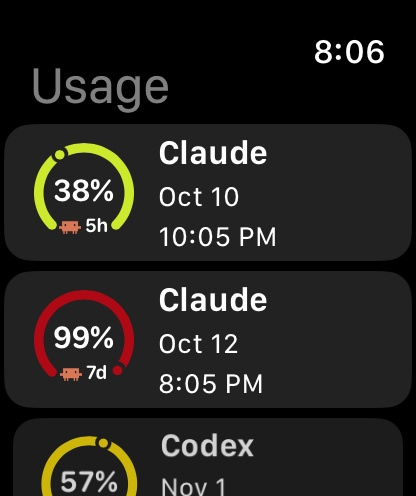
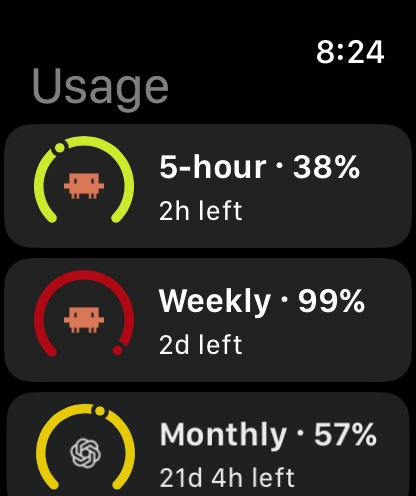
Simplify watch gauges with compact reset countdowns

diff --git a/Collie/CollieWatchWidgets/UsageGauges.swift b/Collie/CollieWatchWidgets/UsageGauges.swift
@@ -8,11 +8,11 @@ struct UsageGauges: View {
     var body: some View {
         let windows = usage?.windows(now: now) ?? [nil, nil, nil]
         GeometryReader { geometry in
-            let diameter = max(0, min((geometry.size.width - 12) / 3, geometry.size.height - 27))
-            HStack(spacing: 6) {
-                UsageGauge(logo: "Claude", period: "5h", label: "Claude 5-hour", window: windows[0], now: now, diameter: diameter)
-                UsageGauge(logo: "Claude", period: "7d", label: "Claude weekly", window: windows[1], now: now, diameter: diameter)
-                UsageGauge(logo: "Codex", period: "1m", label: "Codex monthly", window: windows[2], now: now, diameter: diameter)
+            let diameter = max(0, min((geometry.size.width - 4) / 3, geometry.size.height - 16))
+            HStack(spacing: 2) {
+                UsageGauge(logo: "Claude", label: "Claude 5-hour", window: windows[0], now: now, diameter: diameter)
+                UsageGauge(logo: "Claude", label: "Claude weekly", window: windows[1], now: now, diameter: diameter)
+                UsageGauge(logo: "Codex", label: "Codex monthly", window: windows[2], now: now, diameter: diameter)
             }
             .frame(width: geometry.size.width, height: geometry.size.height)
         }
@@ -21,33 +21,31 @@ struct UsageGauges: View {
 
 private struct UsageGauge: View {
     let logo: String
-    let period: String
     let label: String
     let window: WatchUsage.Window?
     let now: Date
     let diameter: CGFloat
 
     var body: some View {
-        VStack(spacing: 3) {
-            UsageDial(logo: logo, period: period, window: window, showsPercentage: false)
+        VStack(spacing: 2) {
+            UsageDial(logo: logo, window: window, showsPercentage: false)
+                .controlSize(.extraLarge)
                 .frame(width: diameter, height: diameter)
                 .widgetAccentable()
-            VStack(spacing: 0) {
+            HStack(spacing: 2) {
                 if let window {
-                    HStack(spacing: 2) {
-                        if window.isStale(now: now) {
-                            Circle().fill(.orange).frame(width: 3, height: 3)
-                        }
-                        Text(window.interval.upperBound, format: .dateTime.month(.abbreviated).day())
+                    if window.isStale(now: now) {
+                        Circle().fill(.orange).frame(width: 3, height: 3)
                     }
-                    Text(window.interval.upperBound, format: .dateTime.hour().minute())
+                    Text(Duration.seconds(max(0, window.interval.upperBound.timeIntervalSince(now))),
+                         format: .units(allowed: [.days, .hours, .minutes], width: .narrow, maximumUnitCount: 2))
                 } else {
                     Text("No data")
                 }
             }
             .font(.system(size: 10, design: .rounded))
             .foregroundStyle(.secondary)
-            .frame(height: 24)
+            .frame(height: 14)
         }
         .frame(width: diameter)
         .lineLimit(1)

diff --git a/Collie/CollieWatch/WatchUsageDetail.swift b/Collie/CollieWatch/WatchUsageDetail.swift
@@ -19,14 +19,16 @@ struct WatchUsageDetail: View {
                         }
                     } label: {
                         HStack(spacing: 10) {
-                            UsageDial(logo: logo, period: shortPeriod, window: window)
+                            UsageDial(logo: logo, window: window, showsPercentage: false)
                                 .frame(width: 54, height: 54)
                                 .accessibilityHidden(true)
                             VStack(alignment: .leading, spacing: 3) {
-                                Text(logo).font(.headline)
+                                Text("\(period) · \(window.map { "\($0.used)%" } ?? "--")")
+                                    .font(.headline)
                                 if let window {
-                                    Text(window.interval.upperBound, format: .dateTime.month(.abbreviated).day())
-                                    Text(window.interval.upperBound, format: .dateTime.hour().minute())
+                                    let remaining = Text(Duration.seconds(max(0, window.interval.upperBound.timeIntervalSince(context.date))),
+                                                         format: .units(allowed: [.days, .hours, .minutes], width: .narrow, maximumUnitCount: 2))
+                                    Text("\(remaining) left")
                                 } else {
                                     Text("No data")
                                 }

diff --git a/Collie/CollieWatchWidgets/UsageDial.swift b/Collie/CollieWatchWidgets/UsageDial.swift
@@ -2,17 +2,19 @@ import SwiftUI
 
 struct UsageDial: View {
     let logo: String
-    let period: String
+    var period: String? = nil
     let window: WatchUsage.Window?
     var showsPercentage = true
 
     var body: some View {
         Gauge(value: window?.usedFraction ?? 0) {
-            HStack(spacing: 2) {
-                if showsPercentage {
-                    UsageLogo(name: logo).frame(width: 11, height: 11)
+            if let period {
+                HStack(spacing: 2) {
+                    if showsPercentage {
+                        UsageLogo(name: logo).frame(width: 11, height: 11)
+                    }
+                    Text(period).font(.system(size: 10, weight: .semibold, design: .rounded))
                 }
-                Text(period).font(.system(size: 10, weight: .semibold, design: .rounded))
             }
         } currentValueLabel: {
             if showsPercentage {

diff --git a/docs/reviews/liquid-glass.md b/docs/reviews/liquid-glass.md
@@ -20,8 +20,8 @@ Issue #207 uses the iOS 26 and watchOS 26 glass APIs directly. The minimum versi
 | Onboarding | Glass applied to sign-in and auth-key actions. Instructions and input remain form content. |
 | Watch home / agents | Already uses system lists and navigation. Agent status remains content. |
 | Watch approval detail | Glass applied to Approve, Deny and question actions. Commands and status remain content. |
-| Watch usage detail | Compact native list with percentage gauges and exact resets. Tapping a window opens its countdown, reading age and elapsed percentage. No glass on content. |
-| Watch complications / Smart Stack | Rectangular widget redesigned with three native `Gauge` controls using `.accessoryCircular`. Provider sits inside, the window label sits in the opening, and exact reset date and time sit below. Percentages are shown in the app after tapping. Native markers indicate usage; the circular complication retains elapsed-time ticks. Preserve stale and missing-data states. Gauges use `widgetAccentable`; no extra glass layer. |
+| Watch usage detail | Compact native list with logo gauges, window labels, percentages and reset countdowns. Tapping a window opens its countdown, reading age and elapsed percentage. No glass on content. |
+| Watch complications / Smart Stack | Rectangular widget redesigned with three native `Gauge` controls using `.accessoryCircular`. Provider sits inside and a compact reset countdown sits below. Window labels are omitted to maximize gauge space. Percentages are shown in the app after tapping. Native markers indicate usage; the circular complication retains elapsed-time ticks. Preserve stale and missing-data states. Gauges use `widgetAccentable`; no extra glass layer. |
 | Live Activity / Dynamic Island | System-hosted surface. Remove forced black background, white system actions and dark appearance from the Lock Screen activity. Status pills remain content and approval buttons keep the native widget button style. |
 
 Adjacent custom glass controls share `GlassEffectContainer`. Controls inside a glass composer or dictation capsule do not add another glass surface. Agents/Usage uses native interactive page scrolling instead of a gesture that switches only after release. Page transitions triggered by the selector respect Reduce Motion.
@@ -37,7 +37,7 @@ Prioritize dark mode while retaining native appearance and accessibility behavio
 - Signed iPhone build, embedded watch app and widgets: built successfully and passed signature verification.
 - Reviewed the final diff for approval guards, disabled states, composer behavior and widget missing/stale states. Fixed clipped terminal key labels during visual review. Physical watch feedback exposed a widget-only collapse in the geometry-scaled gauges; the updated implementation removes that transform and shares the plain native gauge with usage detail.
 - Simulator fixtures covered light, dark, Increase Contrast, accessibility text sizes and actual Reduce Transparency. Verified native paging at a partial offset with both pages visible and after settling on Usage. Approval actions stack at accessibility sizes. Existing agent header/key clipping at extreme text sizes remains outside this change.
-- Native watch simulator previews and rectangular fixtures cover reset labels and missing data. Standalone previews did not reproduce the physical widget layout failure. Physical feedback confirmed the collapse was resolved. The later simplified widget and compact usage list await physical acceptance.
+- Native watch simulator previews and rectangular fixtures cover reset countdowns and missing data. Standalone previews did not reproduce the physical widget layout failure. Physical feedback confirmed the collapse was resolved. The later simplified widget and compact usage list await physical acceptance.
 
 These screenshots use deterministic fixtures rendered with production views. The watch simulator image uses a temporary host app with the production gauge view, rather than a configured watch face.
 

diff --git a/README.md b/README.md
@@ -81,7 +81,7 @@ Floating composers, terminal keys, filters and approval actions use native Liqui
 ### Apple Watch
 
 - Pending approvals with the command and a countdown, the agents as in the inbox, and a three-ring usage complication, refreshed about every 15 minutes when watchOS allows it. Outer to inner: Claude 5-hour, Claude weekly, and Codex monthly (resetting on the first of the month). Ring length shows percent used; color shifts smoothly with usage: bright green at 0%, yellow at 60%, orange at 80%, red at 90%, and deep red near 100%. Missing or expired readings show a dim track.
-- The Plan usage widget in the watch Smart Stack shows three native circular gauges for Claude 5-hour, Claude weekly and Codex monthly usage. Each gauge holds the provider logo, with the window label in its opening and the exact reset date and time below. Percentages appear in the watch app after tapping the widget. The native marker indicates usage. The rings use the same usage-color scale as the circular complication. It is also available as a rectangular watch-face complication. White ticks on the circular complication rings mark the elapsed share of each usage window. Fill beyond the tick means usage is ahead of an even pace. Markers are scheduled to advance every five minutes from cached data. The phone’s Codex bar now marks the elapsed share of the month, matching Claude’s pace markers. A small orange dot beside the reset date in the rectangular widget, or beside the percentage in the circular complication, marks readings at least 30 minutes old or of unknown age. Unavailable readings use dim tracks and `--`; missing rings are dashed. Tap either watch widget to open a compact list with usage percentages and exact resets. Tap a window for its countdown, elapsed percentage and reading age; the list also shows the last phone sync.
+- The Plan usage widget in the watch Smart Stack shows three native circular gauges for Claude 5-hour, Claude weekly and Codex monthly usage. Each gauge holds the provider logo, with a compact reset countdown below. Window labels and percentages stay in the watch app to leave more room for the gauges. The native marker indicates usage. The rings use the same usage-color scale as the circular complication. It is also available as a rectangular watch-face complication. White ticks on the circular complication rings mark the elapsed share of each usage window. Fill beyond the tick means usage is ahead of an even pace. Countdowns and elapsed markers are scheduled to advance every five minutes from cached data. The phone’s Codex bar now marks the elapsed share of the month, matching Claude’s pace markers. A small orange dot beside the countdown in the rectangular widget marks readings at least 30 minutes old or of unknown age. Unavailable readings use dim tracks and `--`; missing rings are dashed. Tap either watch widget to open a compact list with matching logo gauges, window labels, usage percentages and reset countdowns. Tap a window for its countdown, elapsed percentage and reading age; the list also shows the last phone sync.
 - Approvals are read-only unless Settings > Apple Watch > Decide from Apple Watch is on; the watch app can then approve, deny or answer a question menu. Decisions are made in the watch app, never from the alert itself.
 - The watch asks the iPhone for pending approvals when it opens, at most once a minute unless an approval alert opened it, and works while the iPhone is locked. The agents are as the iPhone app last saw them.
 
